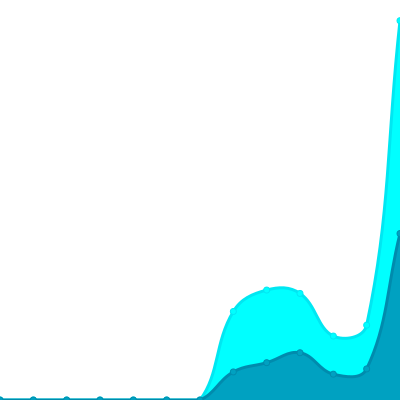
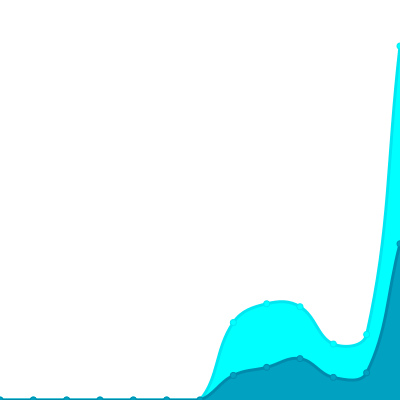
Update views

diff --git a/README.md b/README.md
@@ -26,13 +26,13 @@ The project created and maintained by [gayanvoice](https://github.com/gayanvoice
 			</a>
 		</td>
 		<td>
-			2025/2/12 12:00 AM UTC
+			2025/2/13 12:00 AM UTC
 		</td>
 		<td>
-			46267
+			46497
 		</td>
 		<td>
-			<img alt="Response time graph" src="https://github.com/PBH-BTN/views-counter/raw/master/graph/754169590/small/year.png" height="20"> 139978
+			<img alt="Response time graph" src="https://github.com/PBH-BTN/views-counter/raw/master/graph/754169590/small/year.png" height="20"> 140423
 		</td>
 	</tr>
 	<tr>
@@ -42,13 +42,13 @@ The project created and maintained by [gayanvoice](https://github.com/gayanvoice
 			</a>
 		</td>
 		<td>
-			2025/2/12 12:00 AM UTC
+			2025/2/13 12:00 AM UTC
 		</td>
 		<td>
-			5889
+			5907
 		</td>
 		<td>
-			<img alt="Response time graph" src="https://github.com/PBH-BTN/views-counter/raw/master/graph/792975044/small/year.png" height="20"> 17333
+			<img alt="Response time graph" src="https://github.com/PBH-BTN/views-counter/raw/master/graph/792975044/small/year.png" height="20"> 17379
 		</td>
 	</tr>
 	<tr>
@@ -58,18 +58,18 @@ The project created and maintained by [gayanvoice](https://github.com/gayanvoice
 			</a>
 		</td>
 		<td>
-			2025/2/12 12:00 AM UTC
+			2025/2/13 12:00 AM UTC
 		</td>
 		<td>
-			755
+			757
 		</td>
 		<td>
-			<img alt="Response time graph" src="https://github.com/PBH-BTN/views-counter/raw/master/graph/841614381/small/year.png" height="20"> 3389
+			<img alt="Response time graph" src="https://github.com/PBH-BTN/views-counter/raw/master/graph/841614381/small/year.png" height="20"> 3391
 		</td>
 	</tr>
 </table>
 
-<small><i>Last updated on 2025/2/14 6:20 PM UTC</i></small>
+<small><i>Last updated on 2025/2/15 1:09 AM UTC</i></small>
 
 ## ✂Copy and 📋 Paste
 ### Total Views Badge

diff --git a/readme/754169590/year.md b/readme/754169590/year.md
@@ -23,10 +23,10 @@
 			<code>2025/2/1</code>
 		</td>
 		<td>
-			<code>2913</code>
+			<code>3124</code>
 		</td>
 		<td>
-			<code>6638</code>
+			<code>7079</code>
 		</td>
 	</tr>
 	<tr>
@@ -164,7 +164,7 @@
 </table>
 
 </details>
-<small><i>Last updated on 2025/2/14 6:19 PM UTC</i></small>
+<small><i>Last updated on 2025/2/15 1:09 AM UTC</i></small>
 
 ## ✂Copy and 📋 Paste
 ### SVG Badge

diff --git a/readme/792975044/year.md b/readme/792975044/year.md
@@ -164,7 +164,7 @@
 </table>
 
 </details>
-<small><i>Last updated on 2025/2/14 6:20 PM UTC</i></small>
+<small><i>Last updated on 2025/2/15 1:09 AM UTC</i></small>
 
 ## ✂Copy and 📋 Paste
 ### SVG Badge

diff --git a/readme/841614381/year.md b/readme/841614381/year.md
@@ -164,7 +164,7 @@
 </table>
 
 </details>
-<small><i>Last updated on 2025/2/14 6:20 PM UTC</i></small>
+<small><i>Last updated on 2025/2/15 1:09 AM UTC</i></small>
 
 ## ✂Copy and 📋 Paste
 ### SVG Badge
